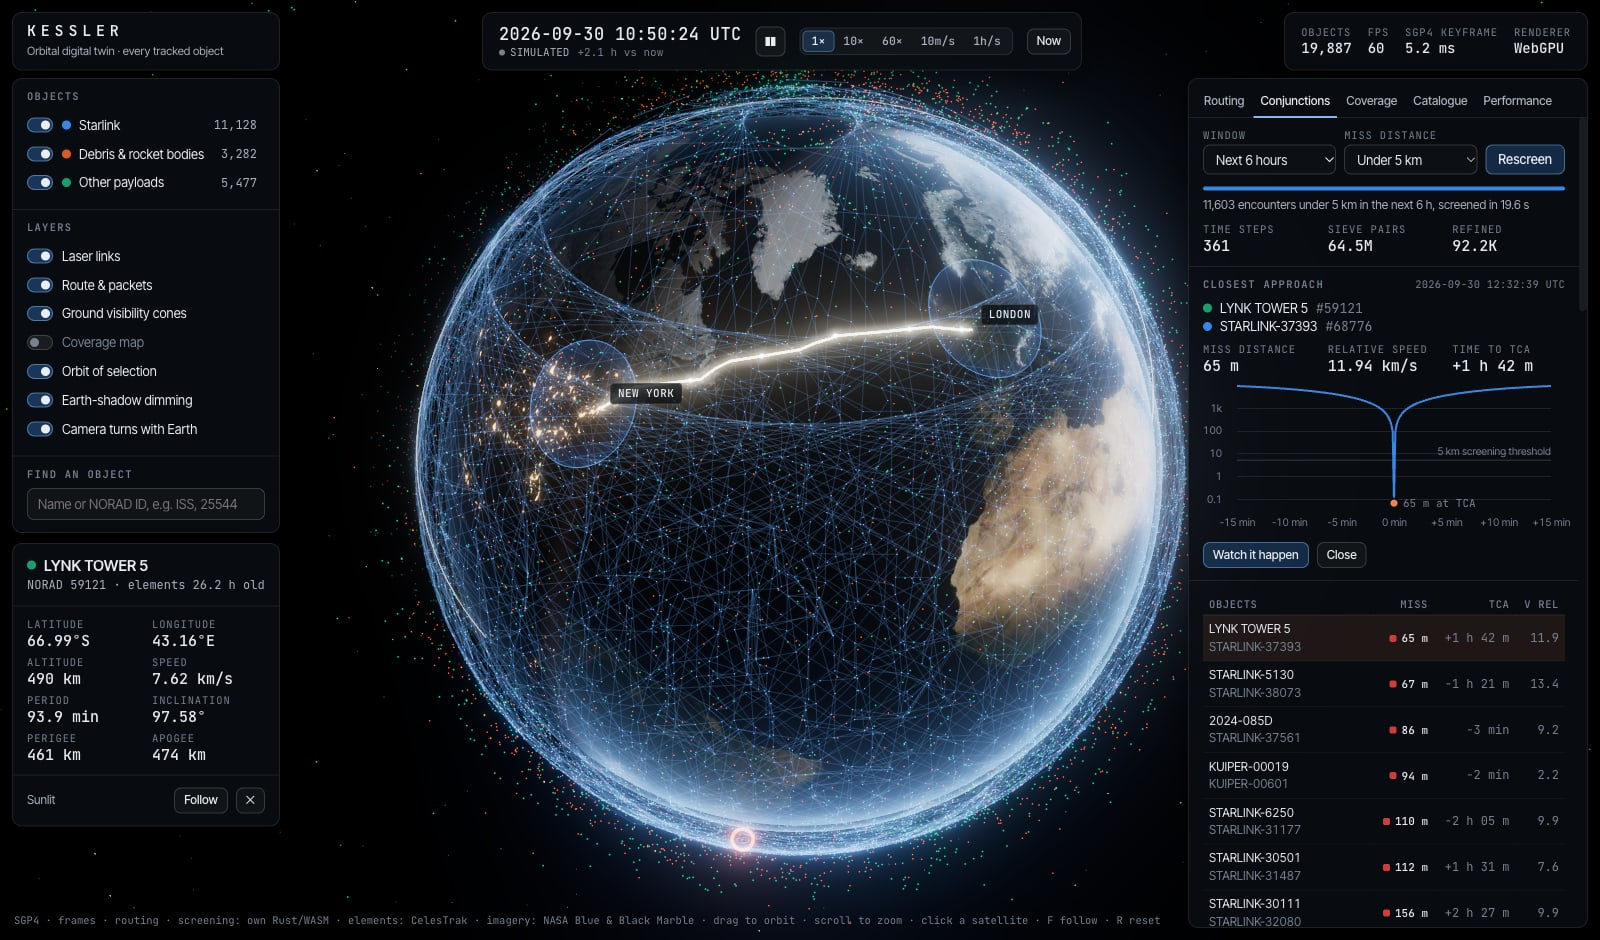
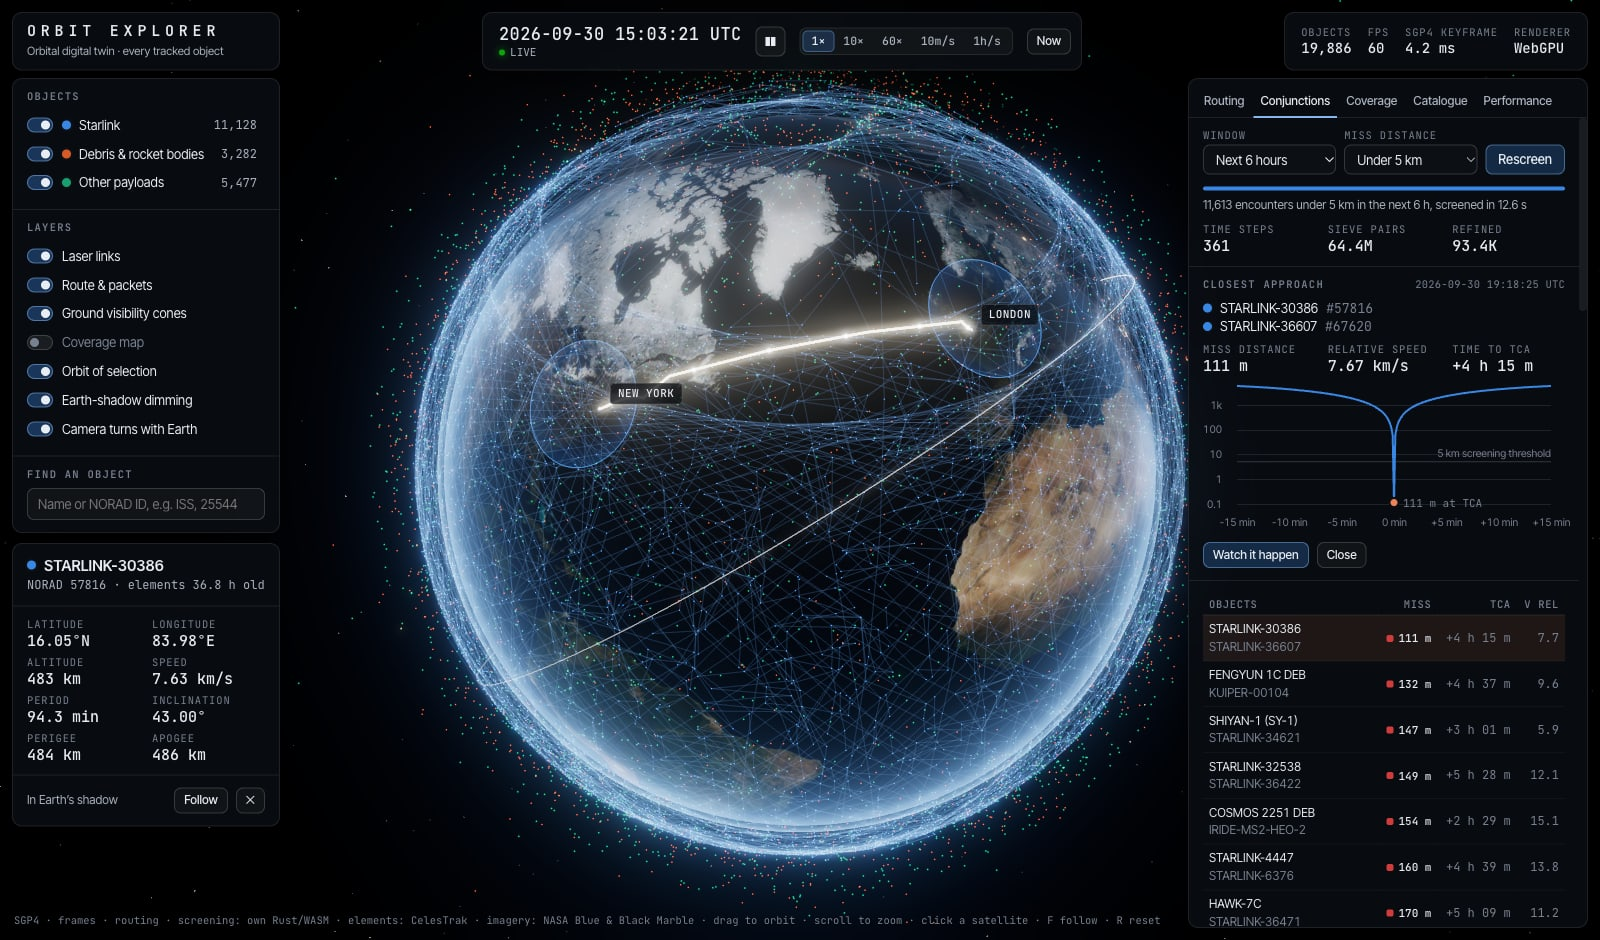
Rename project from Kessler to Orbit Explorer
- Crate kessler-engine -> orbit-explorer-engine; WASM module
  kessler_engine -> orbit_explorer_engine
- UI brand, page title, loader, README, blog draft, plot titles
- Snapshot magic KSLR -> ORBX (catalog.bin patched in place, data unchanged)
- Performance mark, dev debug handle, CI bot name, Cloudflare project name
- Screenshots in docs/media recaptured with the new brand

diff --git a/web/src/App.tsx b/web/src/App.tsx
@@ -47,10 +47,10 @@ export function App() {
       }
       set({ meta, groupCounts: counts, altitudeKm: altitude, groups: catalog.group });
       controller = new SceneController(canvasRef.current!, labelsRef.current!, catalog);
-      if (import.meta.env.DEV) Object.assign(globalThis, { __kessler: { store: useStore, controller } });
+      if (import.meta.env.DEV) Object.assign(globalThis, { __orbitExplorer: { store: useStore, controller } });
       await controller.init();
       if (!cancelled) {
-        performance.mark('kessler-ready'); // first interactive frame, for load-time measurements
+        performance.mark('orbit-explorer-ready'); // first interactive frame, for load-time measurements
         set({ phase: 'ready', readyMs: performance.now() });
       }
     };

diff --git a/web/index.html b/web/index.html
@@ -4,8 +4,8 @@
     <meta charset="UTF-8" />
     <meta name="viewport" content="width=device-width, initial-scale=1.0" />
     <meta name="color-scheme" content="dark" />
-    <meta name="description" content="Kessler: a real-time digital twin of Earth orbit. Every tracked object, Starlink laser-link routing, conjunction screening, built from first principles." />
-    <title>Kessler · Orbital Digital Twin</title>
+    <meta name="description" content="Orbit Explorer: a real-time digital twin of Earth orbit. Every tracked object, Starlink laser-link routing, conjunction screening, built from first principles." />
+    <title>Orbit Explorer · Orbital Digital Twin</title>
     <link rel="icon" href="/favicon.svg" type="image/svg+xml" />
   </head>
   <body>

diff --git a/web/src/ui/Loader.tsx b/web/src/ui/Loader.tsx
@@ -12,12 +12,12 @@ export function Loader() {
           <div className="h">Can't start</div>
           <div>{error}</div>
           <p className="note">
-            Kessler needs a browser with WebGPU or WebGL 2, and module workers. Recent Chrome, Edge, Safari and Firefox all qualify.
+            Orbit Explorer needs a browser with WebGPU or WebGL 2, and module workers. Recent Chrome, Edge, Safari and Firefox all qualify.
           </p>
         </div>
       ) : (
         <div className="loader-box">
-          <div className="brand-name">KESSLER</div>
+          <div className="brand-name">ORBIT EXPLORER</div>
           <div className="loader-step">{step}…</div>
           <div className="loader-bar" />
         </div>

diff --git a/web/src/sim/catalog.ts b/web/src/sim/catalog.ts
@@ -1,4 +1,4 @@
-// Decoder for the KSLR snapshot written by data/fetch-tles.mjs.
+// Decoder for the ORBX snapshot written by data/fetch-tles.mjs.
 
 export const ELEMENT_STRIDE = 8;
 
@@ -36,7 +36,7 @@ export interface Catalog {
 export function decodeCatalog(buffer: ArrayBuffer): Catalog {
   const dv = new DataView(buffer);
   const magic = new TextDecoder().decode(new Uint8Array(buffer, 0, 4));
-  if (magic !== 'KSLR') throw new Error(`not a catalogue snapshot (magic ${magic})`);
+  if (magic !== 'ORBX') throw new Error(`not a catalogue snapshot (magic ${magic})`);
   const version = dv.getUint32(4, true);
   if (version !== 1) throw new Error(`unsupported snapshot version ${version}`);
   const n = dv.getUint32(8, true);

diff --git a/web/src/engine.ts b/web/src/engine.ts
@@ -1,8 +1,8 @@
 // Loads the Rust/WASM physics core once per realm (main thread or worker).
-import init from './engine-pkg/kessler_engine.js';
-import wasmUrl from './engine-pkg/kessler_engine_bg.wasm?url';
+import init from './engine-pkg/orbit_explorer_engine.js';
+import wasmUrl from './engine-pkg/orbit_explorer_engine_bg.wasm?url';
 
-export { Network, Propagator, Screener, geodetic_to_teme, gmst, illumination, sun_position_teme, teme_to_geodetic } from './engine-pkg/kessler_engine.js';
+export { Network, Propagator, Screener, geodetic_to_teme, gmst, illumination, sun_position_teme, teme_to_geodetic } from './engine-pkg/orbit_explorer_engine.js';
 
 let ready: Promise<WebAssembly.Memory> | null = null;
 

diff --git a/web/src/test/node.ts b/web/src/test/node.ts
@@ -1,13 +1,13 @@
 // Test helpers: load the WASM engine and the committed snapshot under Node.
 import { readFileSync } from 'node:fs';
-import { initSync } from '../engine-pkg/kessler_engine.js';
+import { initSync } from '../engine-pkg/orbit_explorer_engine.js';
 import { decodeCatalog, type Catalog } from '../sim/catalog';
 
 let loaded = false;
 
 export function loadEngineSync() {
   if (!loaded) {
-    initSync({ module: readFileSync(new URL('../engine-pkg/kessler_engine_bg.wasm', import.meta.url)) });
+    initSync({ module: readFileSync(new URL('../engine-pkg/orbit_explorer_engine_bg.wasm', import.meta.url)) });
     loaded = true;
   }
 }

diff --git a/web/src/engine.crosscheck.test.ts b/web/src/engine.crosscheck.test.ts
@@ -6,7 +6,7 @@
 import { writeFileSync } from 'node:fs';
 import { json2satrec, sgp4 } from 'satellite.js';
 import { beforeAll, describe, expect, it } from 'vitest';
-import { Propagator, gmst, sun_position_teme, teme_to_geodetic } from './engine-pkg/kessler_engine.js';
+import { Propagator, gmst, sun_position_teme, teme_to_geodetic } from './engine-pkg/orbit_explorer_engine.js';
 import { ELEMENT_STRIDE } from './sim/catalog';
 import { jdToMs } from './sim/time';
 import { loadEngineSync, loadSnapshot } from './test/node';

diff --git a/web/src/sim/keyframes.test.ts b/web/src/sim/keyframes.test.ts
@@ -1,7 +1,7 @@
 // The render loop never runs SGP4 per object per frame; it interpolates
 // keyframes. These tests pin down how much accuracy that costs.
 import { beforeAll, describe, expect, it } from 'vitest';
-import { Propagator } from '../engine-pkg/kessler_engine.js';
+import { Propagator } from '../engine-pkg/orbit_explorer_engine.js';
 import { loadEngineSync, loadSnapshot } from '../test/node';
 import { ELEMENT_STRIDE, subset } from './catalog';
 import { createKeyframes, extrapolate, hermite } from './keyframes';

diff --git a/web/src/sim/physics.test.ts b/web/src/sim/physics.test.ts
@@ -1,5 +1,5 @@
 import { beforeAll, describe, expect, it } from 'vitest';
-import { geodetic_to_teme } from '../engine-pkg/kessler_engine.js';
+import { geodetic_to_teme } from '../engine-pkg/orbit_explorer_engine.js';
 import { loadEngineSync } from '../test/node';
 import { C_KM_S, capHalfAngle, fibreLatencyMs, geodeticToEcef, greatCircleKm, vacuumLatencyMs } from './physics';
 

diff --git a/web/src/ui/TopBar.tsx b/web/src/ui/TopBar.tsx
@@ -22,7 +22,7 @@ export function TopBar({ onMenu }: { onMenu: () => void }) {
   return (
     <header className="topbar">
       <div className="panel brand">
-        <div className="brand-name">KESSLER</div>
+        <div className="brand-name">ORBIT EXPLORER</div>
         <div className="brand-sub">Orbital digital twin · every tracked object</div>
       </div>
 

diff --git a/engine/examples/bench.rs b/engine/examples/bench.rs
@@ -4,12 +4,12 @@
 //!
 //! Browser (WASM) numbers are measured live in the app's Benchmarks panel.
 
-use kessler_engine::batch::{Batch, ELEMENT_STRIDE};
-use kessler_engine::conjunction::Screener;
-use kessler_engine::frames::C_KM_S;
-use kessler_engine::grid::{brute_force_pairs, SpatialHash};
-use kessler_engine::isl::{self, IslConfig, Terminal};
-use kessler_engine::sgp4::gstime;
+use orbit_explorer_engine::batch::{Batch, ELEMENT_STRIDE};
+use orbit_explorer_engine::conjunction::Screener;
+use orbit_explorer_engine::frames::C_KM_S;
+use orbit_explorer_engine::grid::{brute_force_pairs, SpatialHash};
+use orbit_explorer_engine::isl::{self, IslConfig, Terminal};
+use orbit_explorer_engine::sgp4::gstime;
 use std::time::Instant;
 
 struct Snapshot {
@@ -20,7 +20,7 @@ struct Snapshot {
 
 fn load(path: &str) -> Snapshot {
     let b = std::fs::read(path).expect("read snapshot");
-    assert_eq!(&b[0..4], b"KSLR");
+    assert_eq!(&b[0..4], b"ORBX");
     let n = u32::from_le_bytes(b[8..12].try_into().unwrap()) as usize;
     let gen_ms = f64::from_le_bytes(b[16..24].try_into().unwrap());
     let f64_at = |off: usize, i: usize| f64::from_le_bytes(b[off + 8 * i..off + 8 * i + 8].try_into().unwrap());

diff --git a/engine/tests/vallado.rs b/engine/tests/vallado.rs
@@ -2,8 +2,8 @@
 //! covering near-Earth drag, deep-space resonance (12 h and 24 h), Lyddane
 //! singularities, low perigee and decay.
 
-use kessler_engine::sgp4::OpsMode;
-use kessler_engine::verification::{expected_errors, load, run};
+use orbit_explorer_engine::sgp4::OpsMode;
+use orbit_explorer_engine::verification::{expected_errors, load, run};
 
 const TLE: &str = include_str!("../testdata/SGP4-VER.TLE");
 const OUT: &str = include_str!("../testdata/tcppver.out");
